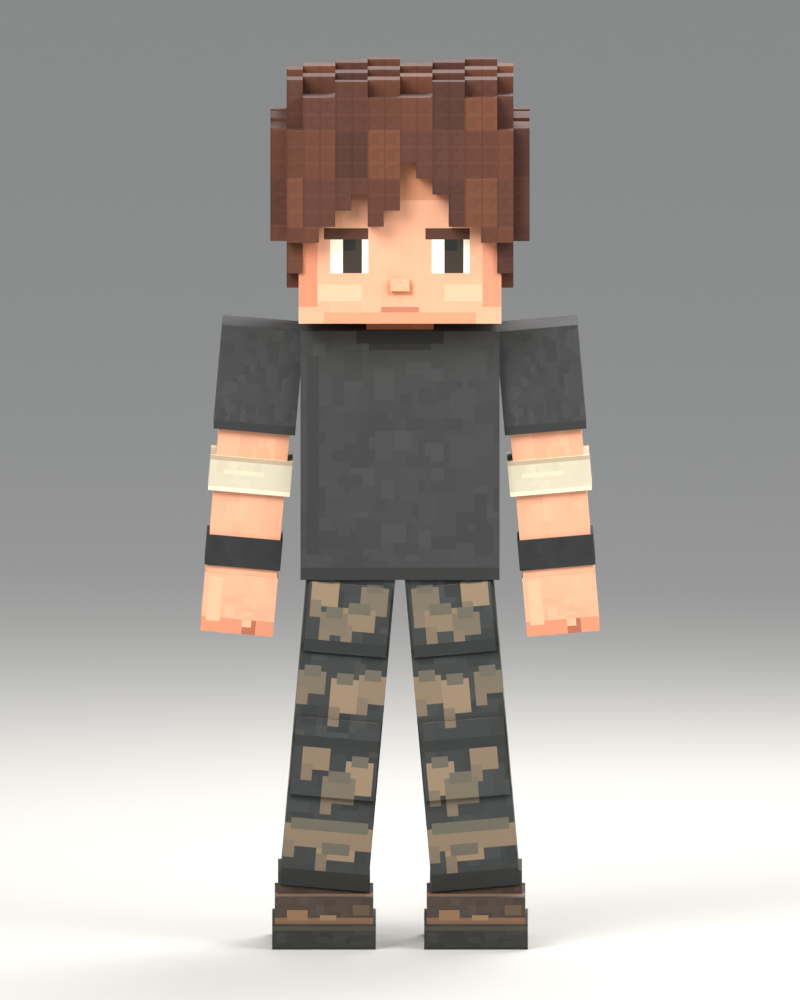
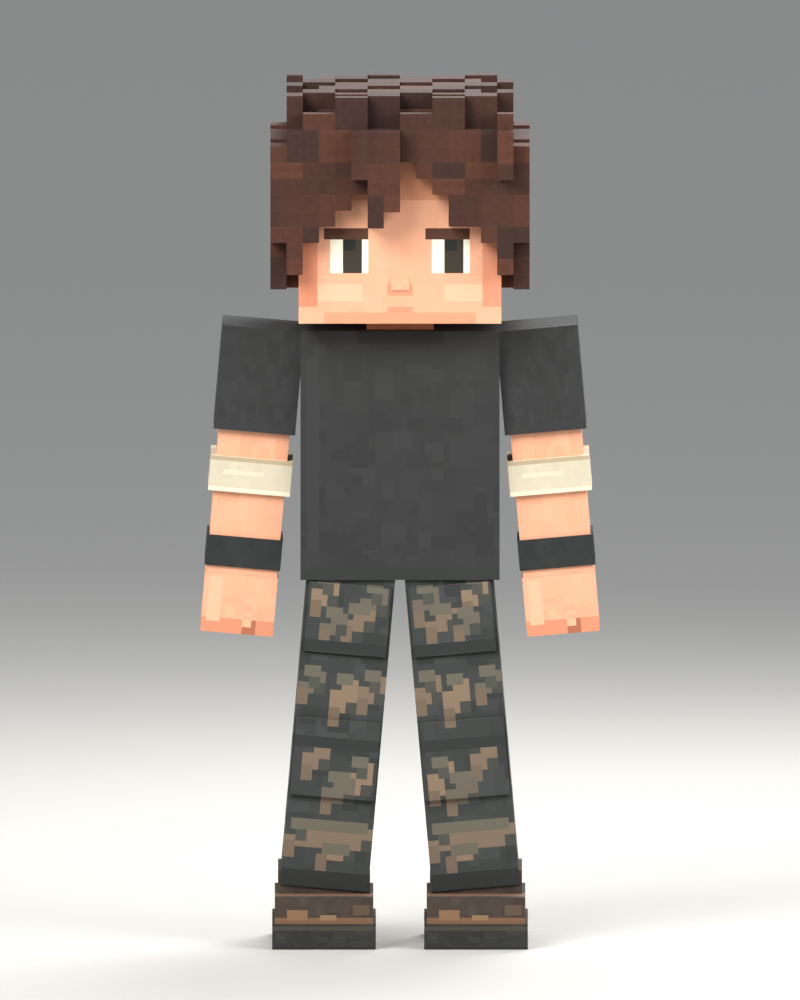
chore(project): update 7 project files
Modified: 7.
Text lines: +27 / -23; binary files: 3.
- Modify: "blender/characters/player/reviews/survivor_reference_v001/Survivor_Reference_v001.blend"
- Modify: "blender/characters/player/reviews/survivor_reference_v001/build_candidate.py"
- Modify: "blender/characters/player/reviews/survivor_reference_v001/make_atlas.py"
- Modify: "blender/characters/player/reviews/survivor_reference_v001/model_validation.json"
- Modify: "blender/characters/player/reviews/survivor_reference_v001/renders/Front.png" (binary)
- Modify: "blender/characters/player/reviews/survivor_reference_v001/renders/Front_3Q.png" (binary)
- Modify: "blender/characters/player/reviews/survivor_reference_v001/survivor_atlas.png" (binary)

diff --git a/blender/characters/player/reviews/survivor_reference_v001/make_atlas.py b/blender/characters/player/reviews/survivor_reference_v001/make_atlas.py
@@ -41,10 +41,10 @@ for x in [5,21]:
  d.rectangle((x,17,x+5,22),fill=(247,238,215));d.rectangle((x+2,17,x+4,22),fill=(52,44,33));d.rectangle((x+2,17,x+3,18),fill=(27,28,24))
  d.rectangle((x-1,15,x+5,16),fill=(85,50,34))
 d.rectangle((3,25,9,27),fill=(247,183,148));d.rectangle((23,25,28,27),fill=(247,183,148))
-d.rectangle((14,25,17,26),fill=(221,145,109));d.rectangle((13,29,18,29),fill=(192,121,91));d.rectangle((4,30,27,31),fill=(226,151,114))
+d.rectangle((14,25,17,26),fill=(221,145,109));d.rectangle((14,29,17,29),fill=(217,145,111));d.rectangle((4,30,27,31),fill=(226,151,114))
 store('face',im)
 for i,name in enumerate(['shirt_front','shirt_back','shirt_side','sleeve']):
- im,d=tile(name,32,40 if name!='sleeve' else 24,(56,57,56),5,20+i)
+ im,d=tile(name,32,40 if name!='sleeve' else 24,(44,45,44),4,20+i)
  if name=='shirt_front':
   d.rectangle((9,0,22,1),fill=(32,34,33));d.rectangle((11,2,20,2),fill=(39,40,38))
   d.rectangle((1,4,2,35),fill=(48,49,48));d.rectangle((0,38,31,39),fill=(42,44,42))
@@ -66,10 +66,14 @@ for side in ['L','R']:
   if face=='side':masks=[(3,6,8,9),(7,11,12,14),(2,19,7,23),(8,23,12,25),(0,33,4,36),(7,36,13,39),(0,46,15,49)]
   for j,(x0,y0,x1,y1) in enumerate(masks):
    if side=='R':x0,x1=15-x1,15-x0
-   base=[(111,102,84),(131,112,90),(143,122,97)][j%3]
+   base=[(100,92,79),(120,102,84),(132,111,90)][j%3]
    d.rectangle((x0,y0,x1,y1),fill=base)
+   # Broken wear islands: clipped corners and dark interruptions, not solid blobs.
+   d.rectangle((x0,y0,min(x1,x0+1),min(y1,y0+1)),fill=(57,59,56))
+   d.rectangle((max(x0,x1-1),max(y0,y1-1),x1,y1),fill=(65,65,59))
+   if j%2==0:d.rectangle((x0+2,y0+1,min(x1,x0+3),min(y1,y0+2)),fill=(73,73,65))
    d.rectangle((max(0,x0+1),max(0,y0-1),min(15,x1-1),y0),fill=(99,94,80))
-   d.rectangle((x0,y1,min(x1,x0+1),min(55,y1+2)),fill=(119,104,86))
+   d.rectangle((x0,y1,min(x1,x0+1),min(55,y1+2)),fill=(111,94,77))
   # Pocket edge/hem is painted; no bag or new accessory added.
   d.rectangle((0,13,15,14),fill=(40,43,41));d.rectangle((0,29,15,30),fill=(42,45,43));d.rectangle((0,53,15,55),fill=(38,40,37))
   store('pants_'+side+'_'+face,im)
@@ -81,10 +85,10 @@ for i,name in enumerate(['boot','sole','boot_toe','boot_collar']):
  if name=='sole':d.rectangle((0,1,23,2),fill=(65,62,51));d.rectangle((0,11,23,11),fill=(31,33,31))
  store(name,im)
 for i in range(12):
- base=[(79,43,28),(86,47,30),(92,51,32),(70,37,26),(101,57,35),(83,46,32)][i%6]
+ base=[(58,29,17),(65,33,19),(71,36,21),(50,25,15),(78,40,23),(61,31,19)][i%6]
  im,d=tile('hair',8,8,base,3,90+i)
  # Broad lock highlights rather than salt-and-pepper texel noise.
- d.rectangle((0,0,7,0),fill=tuple(c+5 for c in base));d.rectangle((0,0,0,7),fill=tuple(c-6 for c in base))
+ d.rectangle((0,0,7,0),fill=tuple(c+2 for c in base));d.rectangle((0,0,0,7),fill=tuple(c-2 for c in base))
  store('hair'+str(i),im)
 ATLAS.save(OUT/'survivor_atlas.png');(OUT/'atlas_regions.json').write_text(json.dumps(regions,indent=2))
 print('Atlas painted:',len(regions),'regions,512² RGB')

diff --git a/blender/characters/player/reviews/survivor_reference_v001/build_candidate.py b/blender/characters/player/reviews/survivor_reference_v001/build_candidate.py
@@ -58,7 +58,7 @@ def box(name,center,size,tile,group,transform=None,crop=None):
 
 # Large cubic face; the head and all layered hair remain one rigid Head part.
 box('Head / simple voxel face',(0,0,1.555),(.438,.406,.390),['face','skin_side','skin_side','skin_side','skin_side','skin_side'],'Head')
-box('Small planar nose',(0,-.207,1.445),(.041,.015,.027),'skin_side','Head')
+box('Small planar nose',(0,-.204,1.445),(.041,.003,.025),'skin_side','Head')
 box('Neck / joined collar',(0,0,1.352),(.145,.175,.060),'neck','Neck')
 box('Charcoal short-sleeve shirt',(0,0,1.065),(.430,.255,.540),['shirt_front','shirt_back','shirt_side','shirt_side','shirt_side','shirt_side'],'Chest')
 
@@ -96,11 +96,11 @@ for i in range(-8,8):
   lock=(i//2*13+j//2*7)%5
   for k in range(15):
    z=BASE+(k+.5)*CELL
-   top=1.856+.018*((i//2*7+j//2*11)%3-1)
+   top=1.820+.018*((i//2*7+j//2*11)%3-1)+(.018 if abs(x)<.18 and abs(y)<.16 else 0.)
    # Cut corners/upper silhouette in broad steps, with a few controlled crown tufts.
-   hw=.270 if z<1.79 else .246
-   hd=.258 if z<1.80 else .239
-   if z<1.54:hw=.250;hd=.242
+   hw=.290 if z<1.765 else .260
+   hd=.290 if z<1.78 else .260
+   if z<1.54:hw=.269;hd=.263
    if z>top or abs(x)>hw or abs(y)>hd:continue
    if max(0,abs(x)-(hw-.070))+max(0,abs(y)-(hd-.070))>.085:continue
    if z<1.754 and abs(x)<.205 and abs(y)<.189:continue
@@ -108,16 +108,16 @@ for i in range(-8,8):
     bottom=fringe[i+8]
     if z<bottom:continue
     # Two staggered shingle depths keep the fringe visibly layered in side view.
-    outer=.244+(.024 if (i//2+k//3)%3==0 else 0)
+    outer=.244+(.029 if ((i-2*(k//3))//3+k//3)%3==0 else 0)
     if -y>outer:continue
    elif y>.17:
     bottom=1.401+.035*((i//3)%3==0)
     if z<bottom:continue
-    if y>.233 and (i//2+k//3)%3==1:continue
+    if y>.237 and ((i+k//2)//3+k//3)%3==1:continue
    else:
     bottom=1.431+.035*((j//2+(1 if i>0 else 0))%4==0)
     if z<bottom:continue
-    if abs(x)>.24 and (j//2+k//3)%3==2:continue
+    if abs(x)>.25 and ((j-2*(k//3))//3+k//3)%3==2:continue
    occupied.add((i,j,k))
 # Only exposed quads; no duplicate interior cube faces.
 verts=[];faces=[];tiles=[]
@@ -128,7 +128,7 @@ for i,j,k in sorted(occupied):
   n=len(verts)
   verts.extend([((i+a)*CELL,(j+b)*CELL,BASE+(k+c)*CELL) for a,b,c in corners]);faces.append(tuple(range(n,n+4)))
   # Shared color across adjacent cells forms locks larger than a single voxel.
-  shade=(i//2*7+j//2*13+k//3*3)%12
+  shade=((i-k//2)//2*7+(j+k//3)//2*11+k//2*5)%12
   tiles.append('hair'+str(shade))
 hair=make_mesh('Layered chunky brown hair',verts,faces,tiles,'Head')
 hair['cell_m']=CELL;hair['occupied_cells']=len(occupied);hair['exposed_quads']=len(faces)
